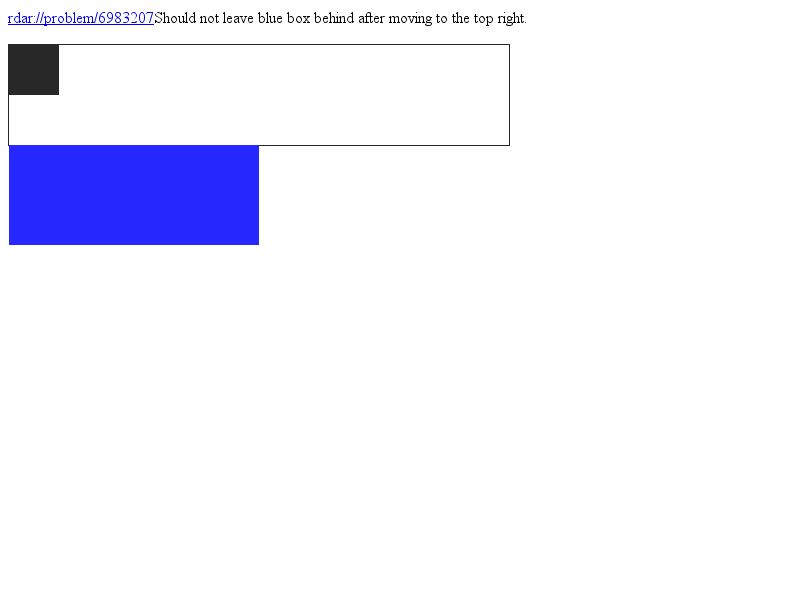
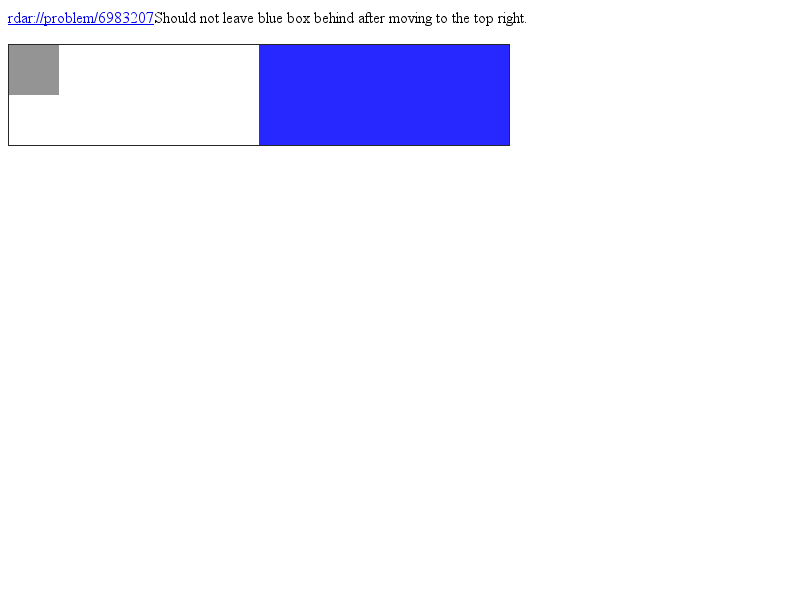
Use requestAnimationFrame callbacks to pump CSS animations https://bugs.webkit.org/show_bug.cgi?id=64591
Patch by Joel Webber <jgw@google.com> on 2012-02-13
Reviewed by James Robinson.

No new tests needed (covered by tests in animations/*).

* page/FrameView.cpp:
(WebCore::FrameView::serviceScriptedAnimations):
* page/animation/AnimationController.cpp:
(WebCore::AnimationControllerPrivate::updateAnimations):
(WebCore::AnimationControllerPrivate::updateAnimationTimer):
(WebCore::AnimationControllerPrivate::fireEventsAndUpdateStyle):
(WebCore::AnimationControllerPrivate::animationFrameCallbackFired):
(WebCore::AnimationController::updateAnimations):
(WebCore::AnimationController::serviceAnimations):
* page/animation/AnimationController.h:
* page/animation/AnimationControllerPrivate.h:

Identifier: 95436@main
git-svn-id: https://svn.webkit.org/repository/webkit/trunk@107575 268f45cc-cd09-0410-ab3c-d52691b4dbfc

Changed region(s): [[0.0, 0.06, 0.6562, 0.42], [0.0, 0.06, 0.0938, 0.18]]

diff --git a/LayoutTests/compositing/repaint/become-overlay-composited-layer.html b/LayoutTests/compositing/repaint/become-overlay-composited-layer.html
@@ -51,8 +51,10 @@
         document.getElementById("container").className = "right";
         window.setTimeout(function() {
           document.getElementById("container").className = "";
-          if (window.layoutTestController)
-            layoutTestController.notifyDone();
+          window.setTimeout(function() {
+            if (window.layoutTestController)
+              layoutTestController.notifyDone();
+          }, 250);
         }, 250);
       }
 

diff --git a/Source/WebCore/page/animation/AnimationController.cpp b/Source/WebCore/page/animation/AnimationController.cpp
@@ -35,6 +35,7 @@
 #include "CompositeAnimation.h"
 #include "EventNames.h"
 #include "Frame.h"
+#include "FrameView.h"
 #include "RenderView.h"
 #include "WebKitAnimationEvent.h"
 #include "WebKitAnimationList.h"
@@ -44,7 +45,6 @@
 
 namespace WebCore {
 
-// FIXME: Why isn't this set to 60fps or something?
 static const double cAnimationTimerDelay = 0.025;
 static const double cBeginAnimationUpdateTimeNotSet = -1;
 
@@ -84,9 +84,9 @@ bool AnimationControllerPrivate::clear(RenderObject* renderer)
     return animation->suspended();
 }
 
-void AnimationControllerPrivate::updateAnimationTimer(bool callSetChanged/* = false*/)
+double AnimationControllerPrivate::updateAnimations(SetChanged callSetChanged/* = DoNotCallSetChanged*/)
 {
-    double needsService = -1;
+    double timeToNextService = -1;
     bool calledSetChanged = false;
 
     RenderObjectAnimationMap::const_iterator animationsEnd = m_compositeAnimations.end();
@@ -94,10 +94,10 @@ void AnimationControllerPrivate::updateAnimationTimer(bool callSetChanged/* = fa
         CompositeAnimation* compAnim = it->second.get();
         if (!compAnim->suspended() && compAnim->hasAnimations()) {
             double t = compAnim->timeToNextService();
-            if (t != -1 && (t < needsService || needsService == -1))
-                needsService = t;
-            if (needsService == 0) {
-                if (callSetChanged) {
+            if (t != -1 && (t < timeToNextService || timeToNextService == -1))
+                timeToNextService = t;
+            if (!timeToNextService) {
+                if (callSetChanged == CallSetChanged) {
                     Node* node = it->first->node();
                     ASSERT(!node || (node->document() && !node->document()->inPageCache()));
                     node->setNeedsStyleRecalc(SyntheticStyleChange);
@@ -108,28 +108,35 @@ void AnimationControllerPrivate::updateAnimationTimer(bool callSetChanged/* = fa
             }
         }
     }
-    
+
     if (calledSetChanged)
         m_frame->document()->updateStyleIfNeeded();
-    
+
+    return timeToNextService;
+}
+
+void AnimationControllerPrivate::updateAnimationTimer(SetChanged callSetChanged/* = DoNotCallSetChanged*/)
+{
+    double timeToNextService = updateAnimations(callSetChanged);
+
     // If we want service immediately, we start a repeating timer to reduce the overhead of starting
-    if (needsService == 0) {
+    if (!timeToNextService) {
         if (!m_animationTimer.isActive() || m_animationTimer.repeatInterval() == 0)
             m_animationTimer.startRepeating(cAnimationTimerDelay);
         return;
     }
-    
+
     // If we don't need service, we want to make sure the timer is no longer running
-    if (needsService < 0) {
+    if (timeToNextService < 0) {
         if (m_animationTimer.isActive())
             m_animationTimer.stop();
         return;
     }
-    
+
     // Otherwise, we want to start a one-shot timer so we get here again
     if (m_animationTimer.isActive())
         m_animationTimer.stop();
-    m_animationTimer.startOneShot(needsService);
+    m_animationTimer.startOneShot(timeToNextService);
 }
 
 void AnimationControllerPrivate::updateStyleIfNeededDispatcherFired(Timer<AnimationControllerPrivate>*)
@@ -143,7 +150,7 @@ void AnimationControllerPrivate::fireEventsAndUpdateStyle()
     RefPtr<Frame> protector = m_frame;
 
     bool updateStyle = !m_eventsToDispatch.isEmpty() || !m_nodeChangesToDispatch.isEmpty();
-    
+
     // fire all the events
     Vector<EventToDispatch> eventsToDispatch = m_eventsToDispatch;
     m_eventsToDispatch.clear();
@@ -154,14 +161,14 @@ void AnimationControllerPrivate::fireEventsAndUpdateStyle()
         else
             it->element->dispatchEvent(WebKitAnimationEvent::create(it->eventType, it->name, it->elapsedTime));
     }
-    
+
     // call setChanged on all the elements
     Vector<RefPtr<Node> >::const_iterator nodeChangesToDispatchEnd = m_nodeChangesToDispatch.end();
     for (Vector<RefPtr<Node> >::const_iterator it = m_nodeChangesToDispatch.begin(); it != nodeChangesToDispatchEnd; ++it)
         (*it)->setNeedsStyleRecalc(SyntheticStyleChange);
-    
+
     m_nodeChangesToDispatch.clear();
-    
+
     if (updateStyle && m_frame)
         m_frame->document()->updateStyleIfNeeded();
 }
@@ -194,6 +201,16 @@ void AnimationControllerPrivate::addNodeChangeToDispatch(PassRefPtr<Node> node)
     startUpdateStyleIfNeededDispatcher();
 }
 
+#if ENABLE(REQUEST_ANIMATION_FRAME)
+void AnimationControllerPrivate::animationFrameCallbackFired()
+{
+    double timeToNextService = updateAnimations(CallSetChanged);
+
+    if (timeToNextService >= 0)
+        m_frame->document()->view()->scheduleAnimation();
+}
+#endif
+
 void AnimationControllerPrivate::animationTimerFired(Timer<AnimationControllerPrivate>*)
 {
     // Make sure animationUpdateTime is updated, so that it is current even if no
@@ -202,7 +219,7 @@ void AnimationControllerPrivate::animationTimerFired(Timer<AnimationControllerPr
 
     // When the timer fires, all we do is call setChanged on all DOM nodes with running animations and then do an immediate
     // updateStyleIfNeeded.  It will then call back to us with new information.
-    updateAnimationTimer(true);
+    updateAnimationTimer(CallSetChanged);
 
     // Fire events right away, to avoid a flash of unanimated style after an animation completes, and before
     // the 'end' event fires.
@@ -499,8 +516,13 @@ PassRefPtr<RenderStyle> AnimationController::updateAnimations(RenderObject* rend
     RefPtr<CompositeAnimation> rendererAnimations = m_data->accessCompositeAnimation(renderer);
     RefPtr<RenderStyle> blendedStyle = rendererAnimations->animate(renderer, oldStyle, newStyle);
 
-    if (renderer->parent() || newStyle->animations() || (oldStyle && oldStyle->animations()))
+    if (renderer->parent() || newStyle->animations() || (oldStyle && oldStyle->animations())) {
         m_data->updateAnimationTimer();
+#if ENABLE(REQUEST_ANIMATION_FRAME)
+        if (FrameView* view = renderer->document()->view())
+            view->scheduleAnimation();
+#endif
+    }
 
     if (blendedStyle != newStyle) {
         // If the animations/transitions change opacity or transform, we need to update
@@ -556,6 +578,13 @@ void AnimationController::resumeAnimations()
 {
     m_data->resumeAnimations();
 }
+
+#if ENABLE(REQUEST_ANIMATION_FRAME)
+void AnimationController::serviceAnimations()
+{
+    m_data->animationFrameCallbackFired();
+}
+#endif
 
 void AnimationController::suspendAnimationsForDocument(Document* document)
 {

diff --git a/Source/WebCore/page/animation/AnimationControllerPrivate.h b/Source/WebCore/page/animation/AnimationControllerPrivate.h
@@ -51,13 +51,20 @@ class RenderObject;
 class RenderStyle;
 class WebKitAnimationList;
 
+enum SetChanged {
+    DoNotCallSetChanged = 0,
+    CallSetChanged = 1
+};
+
 class AnimationControllerPrivate {
     WTF_MAKE_NONCOPYABLE(AnimationControllerPrivate); WTF_MAKE_FAST_ALLOCATED;
 public:
     AnimationControllerPrivate(Frame*);
     ~AnimationControllerPrivate();
 
-    void updateAnimationTimer(bool callSetChanged = false);
+    // Returns the time until the next animation needs to be serviced, or -1 if there are none.
+    double updateAnimations(SetChanged callSetChanged = DoNotCallSetChanged);
+    void updateAnimationTimer(SetChanged callSetChanged = DoNotCallSetChanged);
 
     PassRefPtr<CompositeAnimation> accessCompositeAnimation(RenderObject*);
     bool clear(RenderObject*);
@@ -71,6 +78,9 @@ public:
 
     void suspendAnimations();
     void resumeAnimations();
+#if ENABLE(REQUEST_ANIMATION_FRAME)
+    void animationFrameCallbackFired();
+#endif
 
     void suspendAnimationsForDocument(Document*);
     void resumeAnimationsForDocument(Document*);

diff --git a/Source/WebCore/page/FrameView.cpp b/Source/WebCore/page/FrameView.cpp
@@ -2113,8 +2113,11 @@ void FrameView::unscheduleRelayout()
 #if ENABLE(REQUEST_ANIMATION_FRAME)
 void FrameView::serviceScriptedAnimations(DOMTimeStamp time)
 {
-    Vector<RefPtr<Document> > documents;
+    Vector<AnimationController*> animations;
+    for (Frame* frame = m_frame.get(); frame; frame = frame->tree()->traverseNext())
+        frame->animation()->serviceAnimations();
 
+    Vector<RefPtr<Document> > documents;
     for (Frame* frame = m_frame.get(); frame; frame = frame->tree()->traverseNext())
         documents.append(frame->document());
 

diff --git a/Source/WebCore/page/animation/AnimationController.h b/Source/WebCore/page/animation/AnimationController.h
@@ -66,6 +66,9 @@ public:
 
     void suspendAnimations();
     void resumeAnimations();
+#if ENABLE(REQUEST_ANIMATION_FRAME)
+    void serviceAnimations();
+#endif
 
     void suspendAnimationsForDocument(Document*);
     void resumeAnimationsForDocument(Document*);
